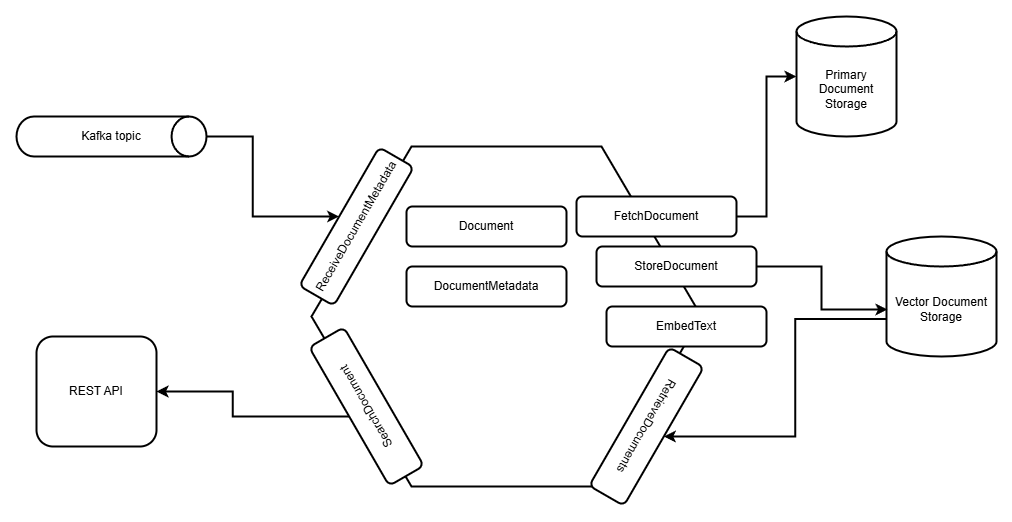
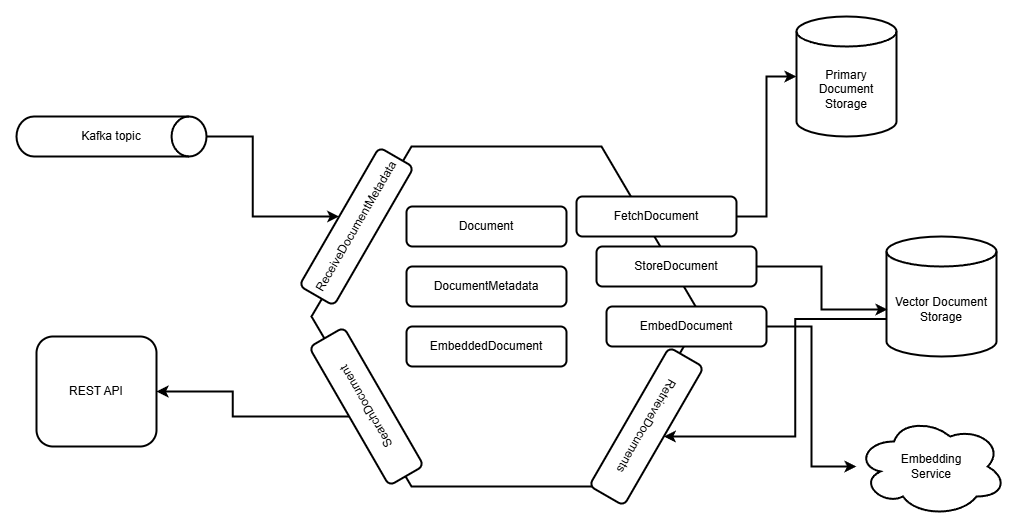
purple-app: add domain

diff --git a/purple-app/app/domain/src/test/kotlin/pl/sudneu/purple/domain/DocumentMetadataReceiverTest.kt b/purple-app/app/domain/src/test/kotlin/pl/sudneu/purple/domain/DocumentMetadataReceiverTest.kt
@@ -1,0 +1,85 @@
+package pl.sudneu.purple.domain
+
+import dev.forkhandles.fabrikate.Fabrikate
+import dev.forkhandles.result4k.asFailure
+import dev.forkhandles.result4k.asSuccess
+import dev.forkhandles.result4k.kotest.shouldBeFailure
+import dev.forkhandles.result4k.kotest.shouldBeSuccess
+import io.mockk.every
+import io.mockk.mockk
+import io.mockk.verify
+import org.junit.jupiter.api.BeforeEach
+import org.junit.jupiter.api.Test
+import pl.sudneu.purple.domain.PurpleError.EmbedDocumentError
+import pl.sudneu.purple.domain.PurpleError.FetchDocumentError
+import pl.sudneu.purple.domain.PurpleError.StoreDocumentError
+
+class DocumentMetadataReceiverTest {
+
+  private val fetchDocument = mockk<FetchDocument>()
+  private val embedDocument = mockk<EmbedDocument>()
+  private val storeDocument = mockk<StoreDocument>()
+
+  @BeforeEach
+  fun setup() {
+    every { fetchDocument.invoke(any()) } returns document().asSuccess()
+    every { embedDocument.invoke(any()) } returns embeddedDocument().asSuccess()
+    every { storeDocument.invoke(any()) } returns Unit.asSuccess()
+  }
+
+  @Test
+  fun `calls collaborators`() {
+    val metadata: DocumentMetadata = Fabrikate().random()
+    val documentMetadataHandler = DocumentMetadataReceiver(
+      fetchDocument, embedDocument, storeDocument
+    )
+
+    documentMetadataHandler(metadata).shouldBeSuccess()
+    verify { fetchDocument.invoke(any()) }
+    verify { embedDocument.invoke(any()) }
+    verify { storeDocument.invoke(any()) }
+  }
+
+  @Test
+  fun `returns fetch failure when fetch document is failed`() {
+    every { fetchDocument.invoke(any()) } returns FetchDocumentError("error-message").asFailure()
+
+    val metadata: DocumentMetadata = Fabrikate().random()
+    val documentMetadataHandler = DocumentMetadataReceiver(
+      fetchDocument, embedDocument, storeDocument
+    )
+
+    documentMetadataHandler(metadata).shouldBeFailure(FetchDocumentError("error-message"))
+  }
+
+  @Test
+  fun `returns failure when embed document is failed`() {
+    every { embedDocument.invoke(any()) } returns EmbedDocumentError("error-message").asFailure()
+
+    val metadata: DocumentMetadata = Fabrikate().random()
+    val documentMetadataHandler = DocumentMetadataReceiver(
+      fetchDocument, embedDocument, storeDocument
+    )
+
+    documentMetadataHandler(metadata).shouldBeFailure(EmbedDocumentError("error-message"))
+  }
+
+  @Test
+  fun `returns failure when store document is failed`() {
+    every { storeDocument.invoke(any()) } returns StoreDocumentError("error-message").asFailure()
+
+    val metadata: DocumentMetadata = Fabrikate().random()
+    val documentMetadataHandler = DocumentMetadataReceiver(
+      fetchDocument, embedDocument, storeDocument
+    )
+
+    documentMetadataHandler(metadata).shouldBeFailure(StoreDocumentError("error-message"))
+  }
+}
+
+
+
+internal fun document(): Document = Fabrikate().random()
+
+internal fun embeddedDocument(): EmbeddedDocument =
+  Fabrikate().random()

diff --git a/purple-app/acceptance-test/src/test/kotlin/pl/sudneu/purple/TestPurpleApplication.kt b/purple-app/acceptance-test/src/test/kotlin/pl/sudneu/purple/TestPurpleApplication.kt
@@ -1,9 +1,6 @@
 package pl.sudneu.purple
 
-import com.zaxxer.hikari.HikariConfig
-import com.zaxxer.hikari.HikariDataSource
 import dev.forkhandles.fabrikate.Fabrikate
-import dev.forkhandles.result4k.kotest.shouldBeSuccess
 import io.kotest.matchers.shouldBe
 import org.http4k.client.OkHttp
 import org.http4k.config.Environment
@@ -25,8 +22,6 @@ import pl.sudneu.purple.presentation.PurpleEnvironment.VEC_DATABASE_DRIVER
 import pl.sudneu.purple.presentation.PurpleEnvironment.VEC_DATABASE_PASSWORD
 import pl.sudneu.purple.presentation.PurpleEnvironment.VEC_DATABASE_URL
 import pl.sudneu.purple.presentation.PurpleEnvironment.VEC_DATABASE_USERNAME
-import pl.sudneu.purple.presentation.PurpleMessageHandler
-import javax.sql.DataSource
 
 val environment = Environment.defaults(
   VEC_DATABASE_DRIVER of "org.h2.Driver",
@@ -57,8 +52,6 @@ class TestPurpleApplication {
   @Test
   fun `should store vectorized document`() {
     val event: FileReceivedEvent = Fabrikate().random()
-    val messageHandler = PurpleMessageHandler(environment)
-    messageHandler(event).shouldBeSuccess()
 
     val result = TestDatabaseConnection
       .dataSource

diff --git a/purple-app/app/presentation/src/main/kotlin/pl/sudneu/purple/presentation/PurpleMessageHandler.kt b/purple-app/app/presentation/src/main/kotlin/pl/sudneu/purple/presentation/PurpleMessageHandler.kt
@@ -1,17 +1,12 @@
 package pl.sudneu.purple.presentation
 
-import dev.forkhandles.result4k.Result
-import dev.forkhandles.result4k.Success
-import org.http4k.config.Environment
+import org.apache.kafka.clients.consumer.Consumer
+import pl.sudneu.purple.domain.ReceiveDocumentMetadata
 
-typealias MessageHandler = (FileReceivedEvent) -> Result<Unit, String>
 
-fun PurpleMessageHandler(
-  environment: Environment
-): MessageHandler {
+class PurpleMessageHandler(
+  val consumer: Consumer<String, FileReceivedEvent>,
+  val receiveDocumentMetadata: ReceiveDocumentMetadata
+) {
 
-  return fun (event: FileReceivedEvent): Result<Unit, String> {
-    println("Purple Message Handler")
-    return Success(Unit)
-  }
 }

diff --git a/purple-app/app/domain/src/test/kotlin/pl/sudneu/purple/domain/NonBlankStringTest.kt b/purple-app/app/domain/src/test/kotlin/pl/sudneu/purple/domain/NonBlankStringTest.kt
@@ -1,0 +1,29 @@
+package pl.sudneu.purple.domain
+
+import io.kotest.assertions.throwables.shouldNotThrowAny
+import io.kotest.assertions.throwables.shouldThrow
+import org.junit.jupiter.api.Test
+
+class NonBlankStringTest {
+
+  @Test
+  fun `accepts normal string`() {
+    shouldNotThrowAny {
+      NonBlankString("normal string")
+    }
+  }
+
+  @Test
+  fun `throws when empty string is passed`() {
+    shouldThrow<IllegalArgumentException> {
+      NonBlankString("")
+    }
+  }
+
+  @Test
+  fun `throws when blank string is passed`() {
+    shouldThrow<IllegalArgumentException> {
+      NonBlankString("    ")
+    }
+  }
+}

diff --git a/purple-app/app/domain/src/main/kotlin/pl/sudneu/purple/domain/DocumentMetadataReceiver.kt b/purple-app/app/domain/src/main/kotlin/pl/sudneu/purple/domain/DocumentMetadataReceiver.kt
@@ -1,0 +1,16 @@
+package pl.sudneu.purple.domain
+
+import dev.forkhandles.result4k.flatMap
+
+fun DocumentMetadataReceiver(
+  fetchDocument: FetchDocument,
+  embedDocument: EmbedDocument,
+  storeDocument: StoreDocument
+): ReceiveDocumentMetadata {
+
+  return ReceiveDocumentMetadata { metadata ->
+    fetchDocument(metadata.toRemoteFileLocation())
+      .flatMap { document -> embedDocument(document) }
+      .flatMap { embeddedDocument -> storeDocument(embeddedDocument) }
+  }
+}

diff --git a/purple-app/app/domain/src/main/kotlin/pl/sudneu/purple/domain/FetchDocument.kt b/purple-app/app/domain/src/main/kotlin/pl/sudneu/purple/domain/FetchDocument.kt
@@ -1,10 +1,10 @@
 package pl.sudneu.purple.domain
 
 import dev.forkhandles.result4k.Result
-import java.net.URI
+import pl.sudneu.purple.domain.PurpleError.FetchDocumentError
 
 fun interface FetchDocument {
-  operator fun invoke(uri: URI): Result<Unit, PurpleError>
+  operator fun invoke(uri: RemoteFileLocation): Result<Document, FetchDocumentError>
 
   companion object
 }

diff --git a/purple-app/app/domain/src/test/kotlin/pl/sudneu/purple/domain/RemoteFileLocationTest.kt b/purple-app/app/domain/src/test/kotlin/pl/sudneu/purple/domain/RemoteFileLocationTest.kt
@@ -1,0 +1,15 @@
+package pl.sudneu.purple.domain
+
+import io.kotest.assertions.throwables.shouldThrow
+import org.junit.jupiter.api.Test
+import java.net.URI
+
+class RemoteFileLocationTest {
+
+  @Test
+  fun `throws when uri is blank string`() {
+     shouldThrow<IllegalArgumentException> {
+       RemoteFileLocation(URI.create("  "))
+     }
+  }
+}

diff --git a/purple-app/app/domain/src/main/kotlin/pl/sudneu/purple/domain/PurpleError.kt b/purple-app/app/domain/src/main/kotlin/pl/sudneu/purple/domain/PurpleError.kt
@@ -1,5 +1,8 @@
 package pl.sudneu.purple.domain
 
 interface PurpleError {
+  data class FetchDocumentError(val message: String) : PurpleError
+  data class EmbedDocumentError(val message: String) : PurpleError
+  data class StoreDocumentError(val message: String) : PurpleError
   object UnknownError : PurpleError
 }

diff --git a/purple-app/app/domain/src/main/kotlin/pl/sudneu/purple/domain/EmbedDocument.kt b/purple-app/app/domain/src/main/kotlin/pl/sudneu/purple/domain/EmbedDocument.kt
@@ -1,0 +1,10 @@
+package pl.sudneu.purple.domain
+
+import dev.forkhandles.result4k.Result
+import pl.sudneu.purple.domain.PurpleError.EmbedDocumentError
+
+fun interface EmbedDocument {
+  operator fun invoke(document: Document): Result<EmbeddedDocument, EmbedDocumentError>
+
+  companion object
+}

diff --git a/purple-app/app/domain/src/main/kotlin/pl/sudneu/purple/domain/StoreDocument.kt b/purple-app/app/domain/src/main/kotlin/pl/sudneu/purple/domain/StoreDocument.kt
@@ -1,0 +1,10 @@
+package pl.sudneu.purple.domain
+
+import dev.forkhandles.result4k.Result
+import pl.sudneu.purple.domain.PurpleError.StoreDocumentError
+
+fun interface StoreDocument {
+  operator fun invoke(document: EmbeddedDocument): Result<Unit, StoreDocumentError>
+
+  companion object
+}

diff --git a/purple-app/app/domain/src/main/kotlin/pl/sudneu/purple/domain/RemoteFileLocation.kt b/purple-app/app/domain/src/main/kotlin/pl/sudneu/purple/domain/RemoteFileLocation.kt
@@ -1,0 +1,8 @@
+package pl.sudneu.purple.domain
+
+import java.net.URI
+
+data class RemoteFileLocation(val uri: URI)
+
+fun DocumentMetadata.toRemoteFileLocation(): RemoteFileLocation =
+  RemoteFileLocation(URI(filePath))

diff --git a/purple-app/app/domain/src/main/kotlin/pl/sudneu/purple/domain/NonBlankString.kt b/purple-app/app/domain/src/main/kotlin/pl/sudneu/purple/domain/NonBlankString.kt
@@ -1,0 +1,8 @@
+package pl.sudneu.purple.domain
+
+data class NonBlankString(val value: String) {
+  init {
+    require(value.isNotEmpty())
+    require(value.isNotBlank())
+  }
+}
